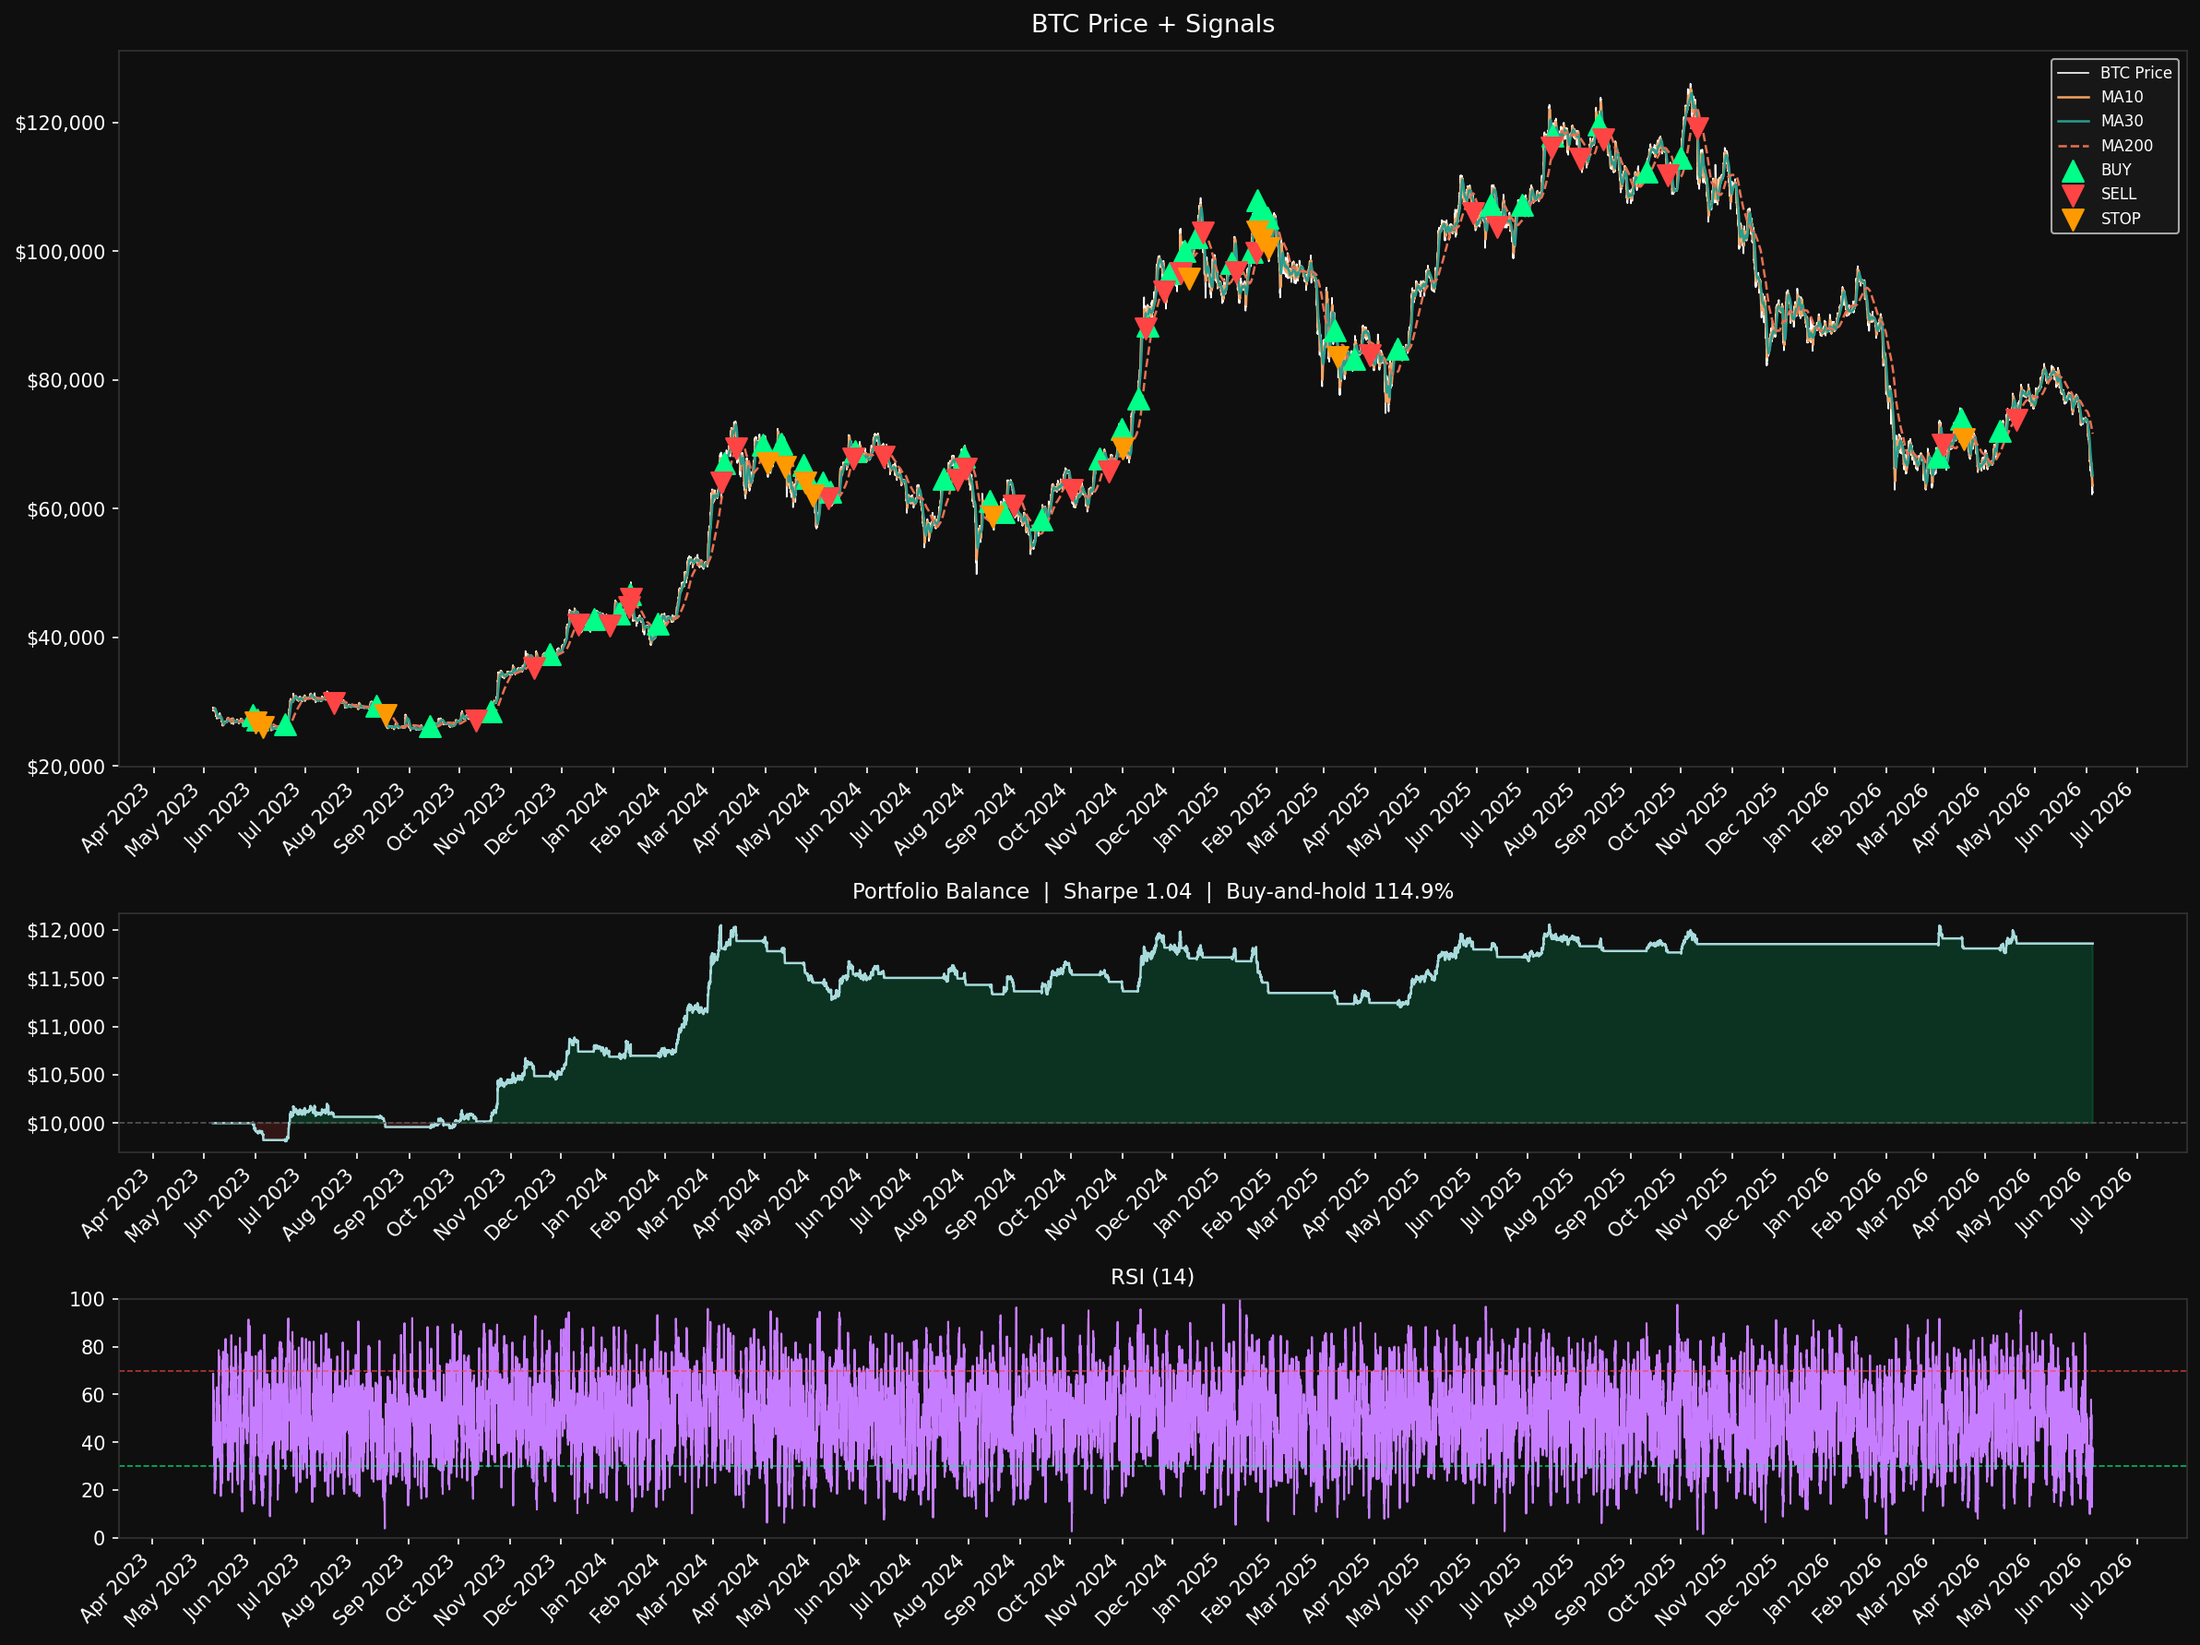
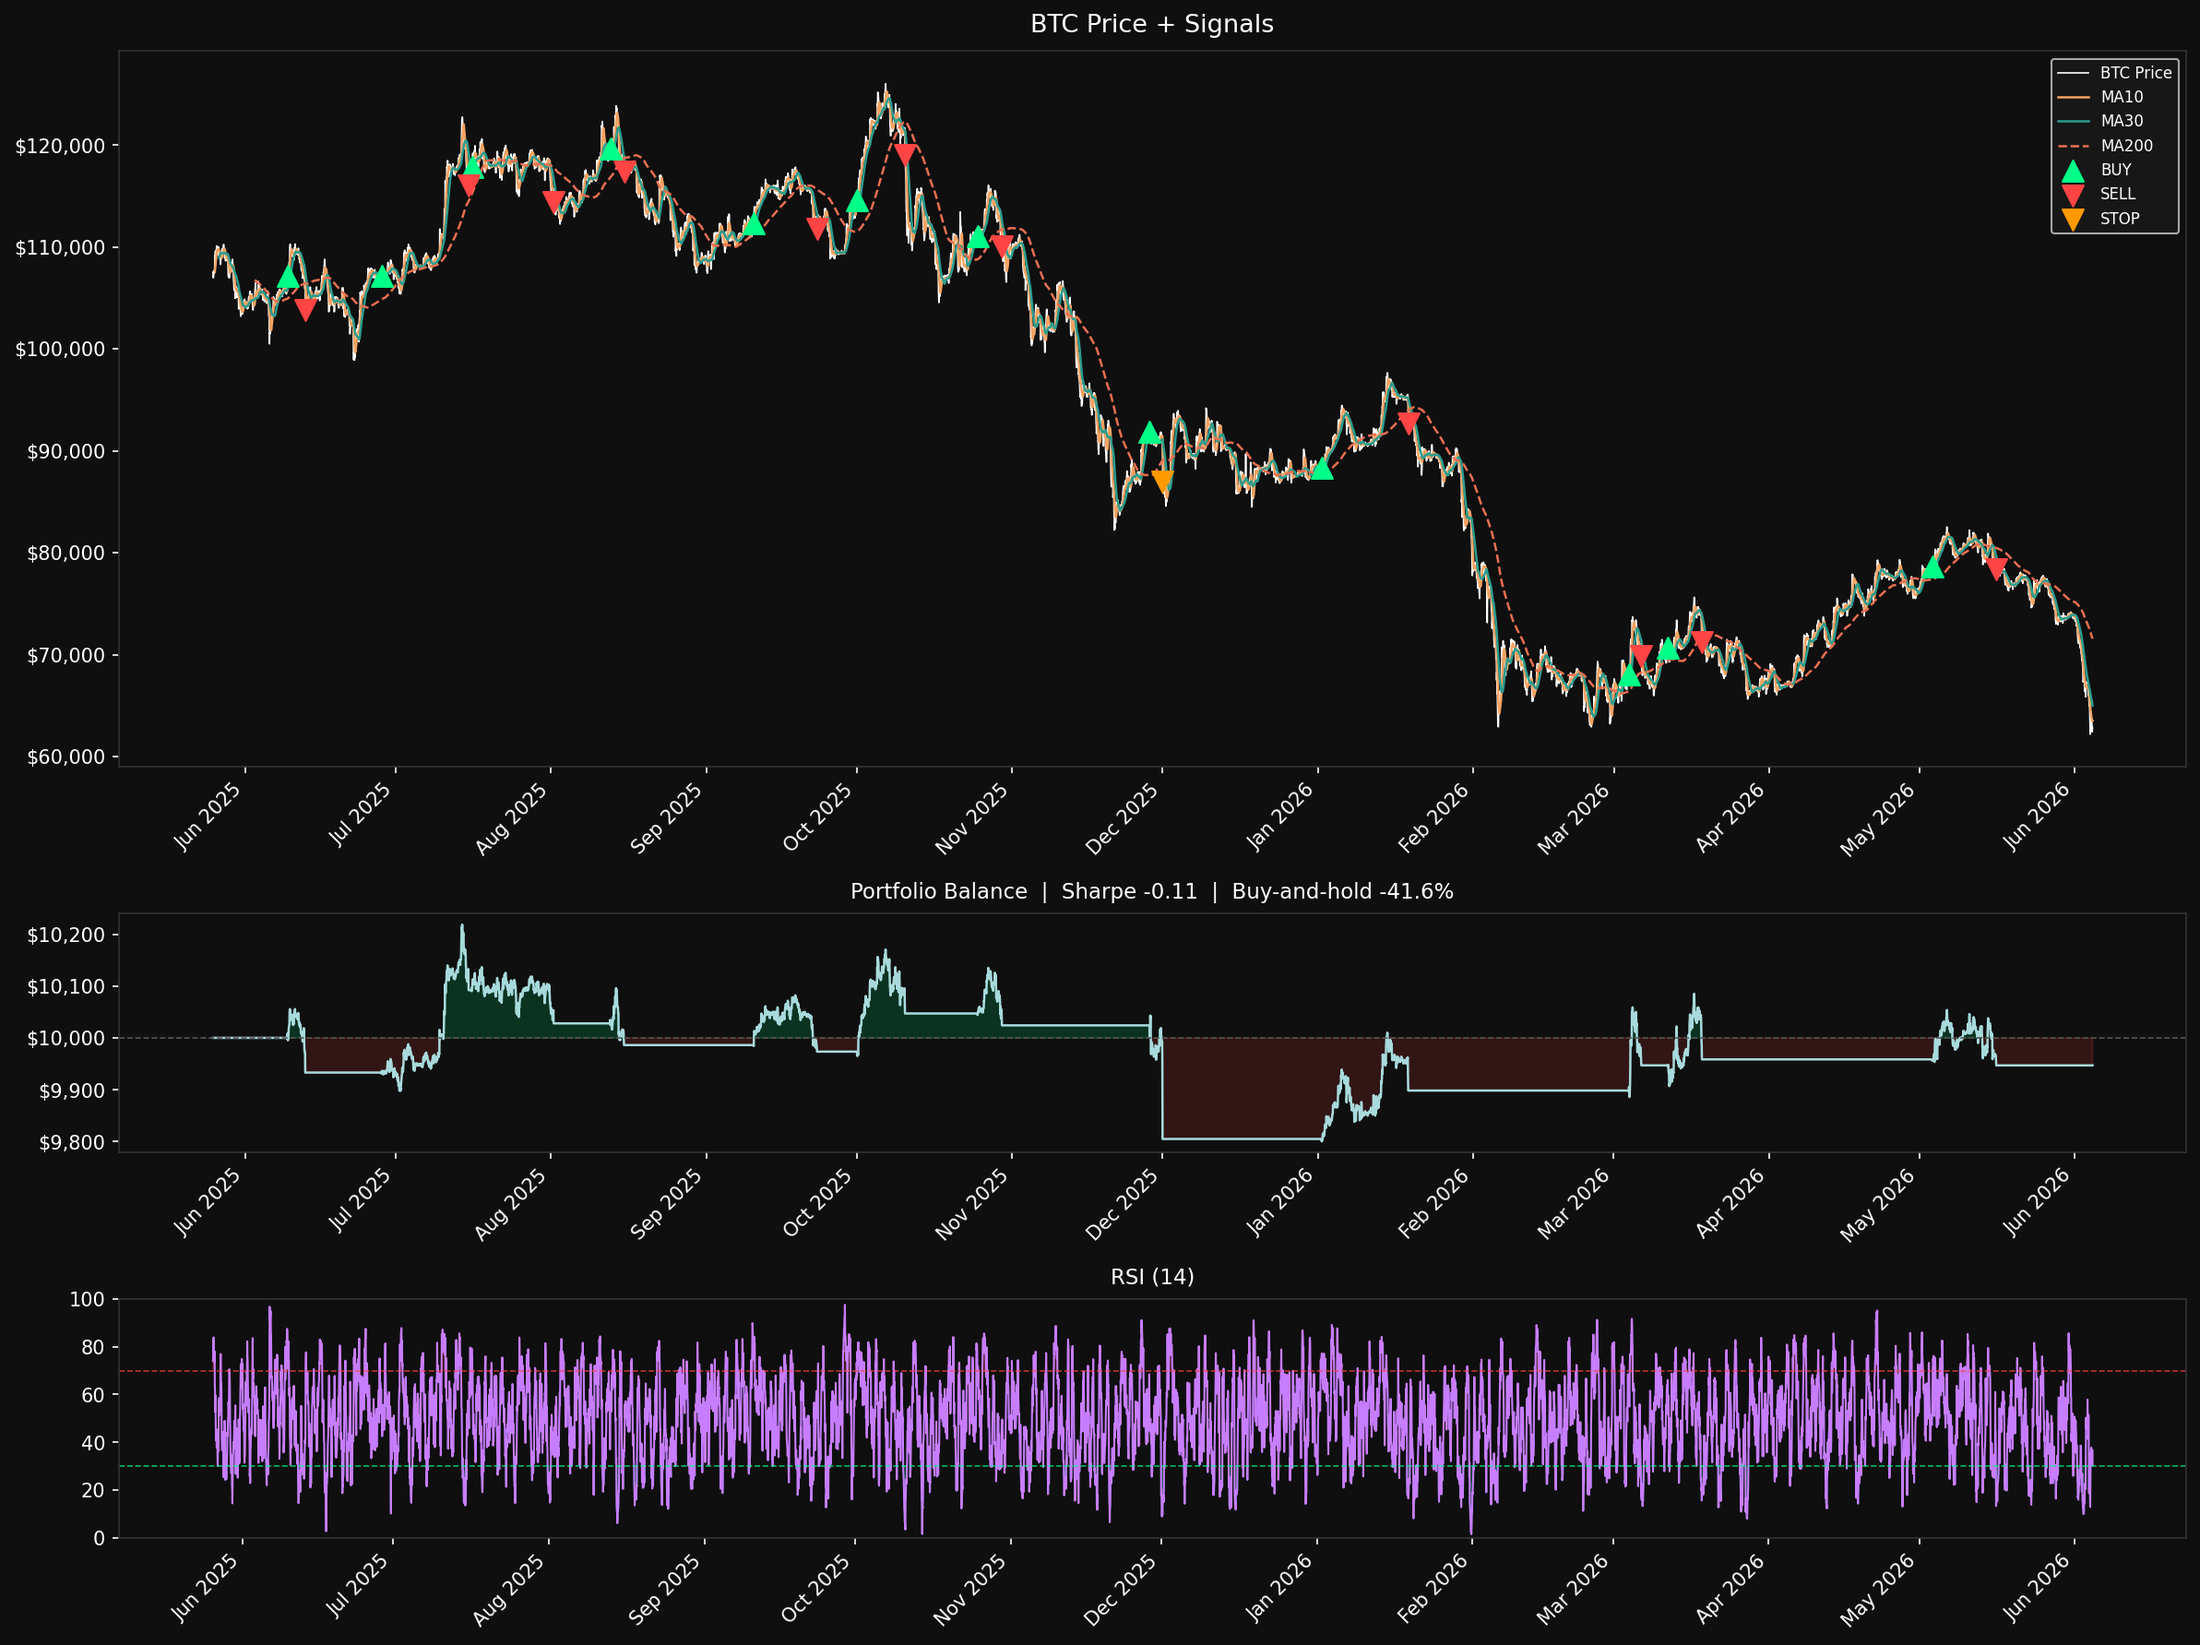
Add regime-aware position sizing and trailing stop

diff --git a/quant_bot/backtest.py b/quant_bot/backtest.py
@@ -6,10 +6,13 @@ import numpy as np  # NumPy: fast numerical array library — used for Sharpe ra
 import pandas as pd  # pandas: data-table library — pd.DataFrame, pd.isna(), pd.Timestamp
 
 from quant_bot.config import (  # import the constants this file needs from the central config
+    BULL_POSITION_SIZE_PCT,     # 0.40 = 40% of cash per trade in confirmed uptrends (NEW — regime-aware sizing)
+    BULL_REGIME_MA200_BUFFER,   # 0.03 = price must be ≥3% above MA200 to count as a strong uptrend (NEW)
+    BULL_TRAILING_STOP_PCT,     # 0.10 = wider 10% trailing stop in confirmed uptrends to ride trends longer (NEW)
     FEE_RATE,                   # 0.001 = 0.1% — deducted on every buy and every sell
     HARD_STOP_PCT,              # 0.04 = 4% — exit if price drops 4% below entry
     ML_CONFIDENCE_THRESHOLD,    # 0.55 — ML model must be ≥55% confident before we buy
-    POSITION_SIZE_PCT,          # 0.20 — only risk 20% of cash per trade
+    POSITION_SIZE_PCT,          # 0.20 — only risk 20% of cash per trade in choppy/bear markets
 )
 from quant_bot.ml import MLModel, compute_features_at_row  # MLModel: the trained classifier; compute_features_at_row: computes the 7 ML features for a single candle
 from quant_bot.models import SimulationResult  # the dataclass container that holds all backtest outputs
@@ -35,6 +38,9 @@ def simulate(  # the main backtest engine — loops through every candle and sim
     buy_price = 0.0  # the price at which we entered the current trade
     peak_price = 0.0  # the highest price BTC reached since we bought — updated every candle while in trade
     entry_value = 0.0  # how many USD we committed to the current trade (trade_cash at entry)
+    current_trailing_stop = trailing_stop_pct  # per-trade trailing stop — set at entry based on market regime; default to caller's value until a trade opens
+    bull_entries = 0  # count entries made in confirmed uptrends (used for the summary log)
+    normal_entries = 0  # count entries made in choppy/sideways markets
 
     trades: list[float] = []  # collects the P&L (profit or loss) of each completed trade as a float
     trade_log: list[dict[str, object]] = []  # detailed record of every trade — each trade is a dict; saved to trade_log.csv
@@ -87,27 +93,48 @@ def simulate(  # the main backtest engine — loops through every candle and sim
                         balance_history.append((timestamp, portfolio_value))
                         continue
 
-                trade_cash = cash_balance * position_size_pct  # calculate how much USD to invest: 20% of current cash — prevents all-in bets
-                if trade_cash < _MIN_TRADE_VALUE:  # if 20% of cash is less than $10, the position is too small to be worth opening
+                # ── Regime detection (NEW): is this a confirmed strong uptrend? ───
+                # Strong uptrend = price comfortably above MA200 (by > buffer) AND MA200 itself rising.
+                # In strong uptrends we use bigger position size + wider trailing stop to ride trends.
+                # In choppy/sideways markets we use the conservative defaults.
+                is_strong_uptrend = (
+                    price >= ma200_now * (1 + BULL_REGIME_MA200_BUFFER)  # price ≥ 3% above MA200 — not just barely above
+                    and ma200_now > ma200_prev  # MA200 itself is sloping up
+                )
+                if is_strong_uptrend:
+                    active_position_pct = BULL_POSITION_SIZE_PCT  # 40% — go bigger when the trend is clearly with us
+                    current_trailing_stop = BULL_TRAILING_STOP_PCT  # 10% — give the trade room to breathe in trending markets
+                    bull_entries += 1  # tally for the summary log
+                else:
+                    active_position_pct = position_size_pct  # 20% — conservative default
+                    current_trailing_stop = trailing_stop_pct  # 5% — tighter stop in choppy markets
+                    normal_entries += 1
+
+                trade_cash = cash_balance * active_position_pct  # calculate USD to invest using the regime-appropriate position size
+                if trade_cash < _MIN_TRADE_VALUE:  # if the position is below the $10 minimum, skip — not worth the fees
                     balance_history.append((timestamp, portfolio_value))
                     continue
 
-                entry_value = trade_cash  # record how much USD we are committing to this trade — used later to calculate P&L
-                btc_position = (trade_cash * (1 - FEE_RATE)) / price  # calculate how much BTC we receive: (1 - 0.001) deducts the 0.1% buy fee, then divide by price to convert USD to BTC
-                cash_balance -= trade_cash  # subtract the invested amount from cash — the rest stays in cash earning 0%
-                buy_price = price  # remember the entry price for stop-loss calculations
+                entry_value = trade_cash  # record how much USD we are committing — used later to calculate P&L
+                btc_position = (trade_cash * (1 - FEE_RATE)) / price  # BTC received after paying 0.1% buy fee
+                cash_balance -= trade_cash  # subtract invested amount from cash
+                buy_price = price  # remember entry price for stop calculations
                 entry_timestamp = timestamp  # remember when we entered for the trade log
-                peak_price = price  # initialise the trailing peak to the entry price
-                in_trade = True  # set the flag — we are now in an open position
-                buy_signals.append((timestamp, price))  # record (time, price) for the chart's green triangle markers
+                peak_price = price  # initialise trailing peak to entry price
+                in_trade = True  # mark us as in an open position
+                buy_signals.append((timestamp, price))  # record buy signal for chart
 
-                prob_str = f"{ml_prob:.0%}" if ml_prob is not None else "no-gate"  # format ML probability as a percentage string if we have one, otherwise "no-gate" (before the training cutoff)
-                logger.info(  # log the buy event — visible in the terminal
-                    "BUY  $%s | %s | ML=%s | cash_remaining=$%s",
-                    f"{price:,.2f}",       # entry price formatted with comma separator and 2 decimal places
-                    timestamp,             # the candle timestamp
-                    prob_str,              # ML confidence or "no-gate"
-                    f"{cash_balance:,.2f}",  # how much cash is still available after this trade
+                prob_str = f"{ml_prob:.0%}" if ml_prob is not None else "no-gate"  # format ML probability
+                regime = "BULL" if is_strong_uptrend else "norm"  # short regime label for the log
+                logger.info(  # log the buy event with regime info
+                    "BUY  $%s | %s | regime=%s | size=%.0f%% | trail=%.0f%% | ML=%s | cash=$%s",
+                    f"{price:,.2f}",
+                    timestamp,
+                    regime,
+                    active_position_pct * 100,    # show actual position % used for this trade
+                    current_trailing_stop * 100,  # show actual trailing stop % used for this trade
+                    prob_str,
+                    f"{cash_balance:,.2f}",
                 )
 
         else:  # ── exit logic: only runs when we are already holding a BTC position ──
@@ -116,7 +143,7 @@ def simulate(  # the main backtest engine — loops through every candle and sim
                 price=price,
                 buy_price=buy_price,
                 peak_price=peak_price,
-                trailing_stop_pct=trailing_stop_pct,
+                trailing_stop_pct=current_trailing_stop,  # use the per-trade trailing stop set at entry (5% or 10% depending on regime)
                 hard_stop_pct=HARD_STOP_PCT,
             )
 
@@ -201,13 +228,15 @@ def simulate(  # the main backtest engine — loops through every candle and sim
 
     profitable = sum(1 for t in trades if t > 0)  # generator expression counts how many completed trades had positive P&L; sum() adds them up
     logger.info(  # print the final summary to the terminal
-        "--- SUMMARY | trades=%d profitable=%d | drawdown=%.1f%% | Sharpe=%.2f | balance=$%s | buy-and-hold=%.1f%%",
+        "--- SUMMARY | trades=%d (bull=%d norm=%d) profitable=%d | drawdown=%.1f%% | Sharpe=%.2f | balance=$%s | buy-and-hold=%.1f%%",
         len(trades),             # total number of completed trades
+        bull_entries,            # how many trades were taken in confirmed uptrends (got the 40% / 10% treatment)
+        normal_entries,          # how many were taken in choppy markets (got the 20% / 5% treatment)
         profitable,              # how many made money
-        max_drawdown * 100,      # convert fraction to percentage (e.g. 0.03 → 3.0%)
-        sharpe_ratio,            # annualised Sharpe ratio
-        f"{final_balance:,.2f}", # final portfolio value formatted with commas
-        buy_and_hold_return * 100,  # buy-and-hold return as percentage
+        max_drawdown * 100,      # convert fraction to percentage
+        sharpe_ratio,            # annualised Sharpe
+        f"{final_balance:,.2f}", # final portfolio value
+        buy_and_hold_return * 100,  # buy-and-hold benchmark
     )
 
     return SimulationResult(  # pack all outputs into the dataclass and return to the caller

diff --git a/quant_bot/config.py b/quant_bot/config.py
@@ -18,9 +18,21 @@ ML_REPORT_PATH = "ml_report.csv"
 # 0.20 = 20 % per trade; keeps the rest in cash and prevents ruin on a single bad trade.
 POSITION_SIZE_PCT = 0.20
 
+# ── Regime-aware position sizing (NEW) ────────────────────────────────────────
+# In confirmed uptrends (price comfortably above MA200 AND MA200 is rising) the
+# bot uses a bigger position to capture more of bull-market upside.
+# In choppy/bear regimes it falls back to the conservative POSITION_SIZE_PCT.
+BULL_POSITION_SIZE_PCT = 0.40       # 40% of cash per trade in strong uptrends (vs 20% in choppy markets)
+BULL_REGIME_MA200_BUFFER = 0.03     # price must be at least 3% above MA200 to count as "strong" uptrend (not just barely above)
+
+# ── Regime-aware trailing stop (NEW) ──────────────────────────────────────────
+# In a strong uptrend the bot uses a wider trailing stop so it does not get
+# kicked out by routine 5% pullbacks during a trending bull run.
+BULL_TRAILING_STOP_PCT = 0.10       # 10% trailing stop in strong uptrends (vs 5% in choppy markets)
+
 # ── ML confidence gate ────────────────────────────────────────────────────────
-# The logistic-regression model must predict at least this probability of price
-# going up before the backtester is allowed to enter a trade.
+# The XGBoost model must predict at least this probability of price going up
+# before the backtester is allowed to enter a trade.
 # Applied only AFTER the model's training cutoff (no lookahead).
 ML_CONFIDENCE_THRESHOLD = 0.55
 
